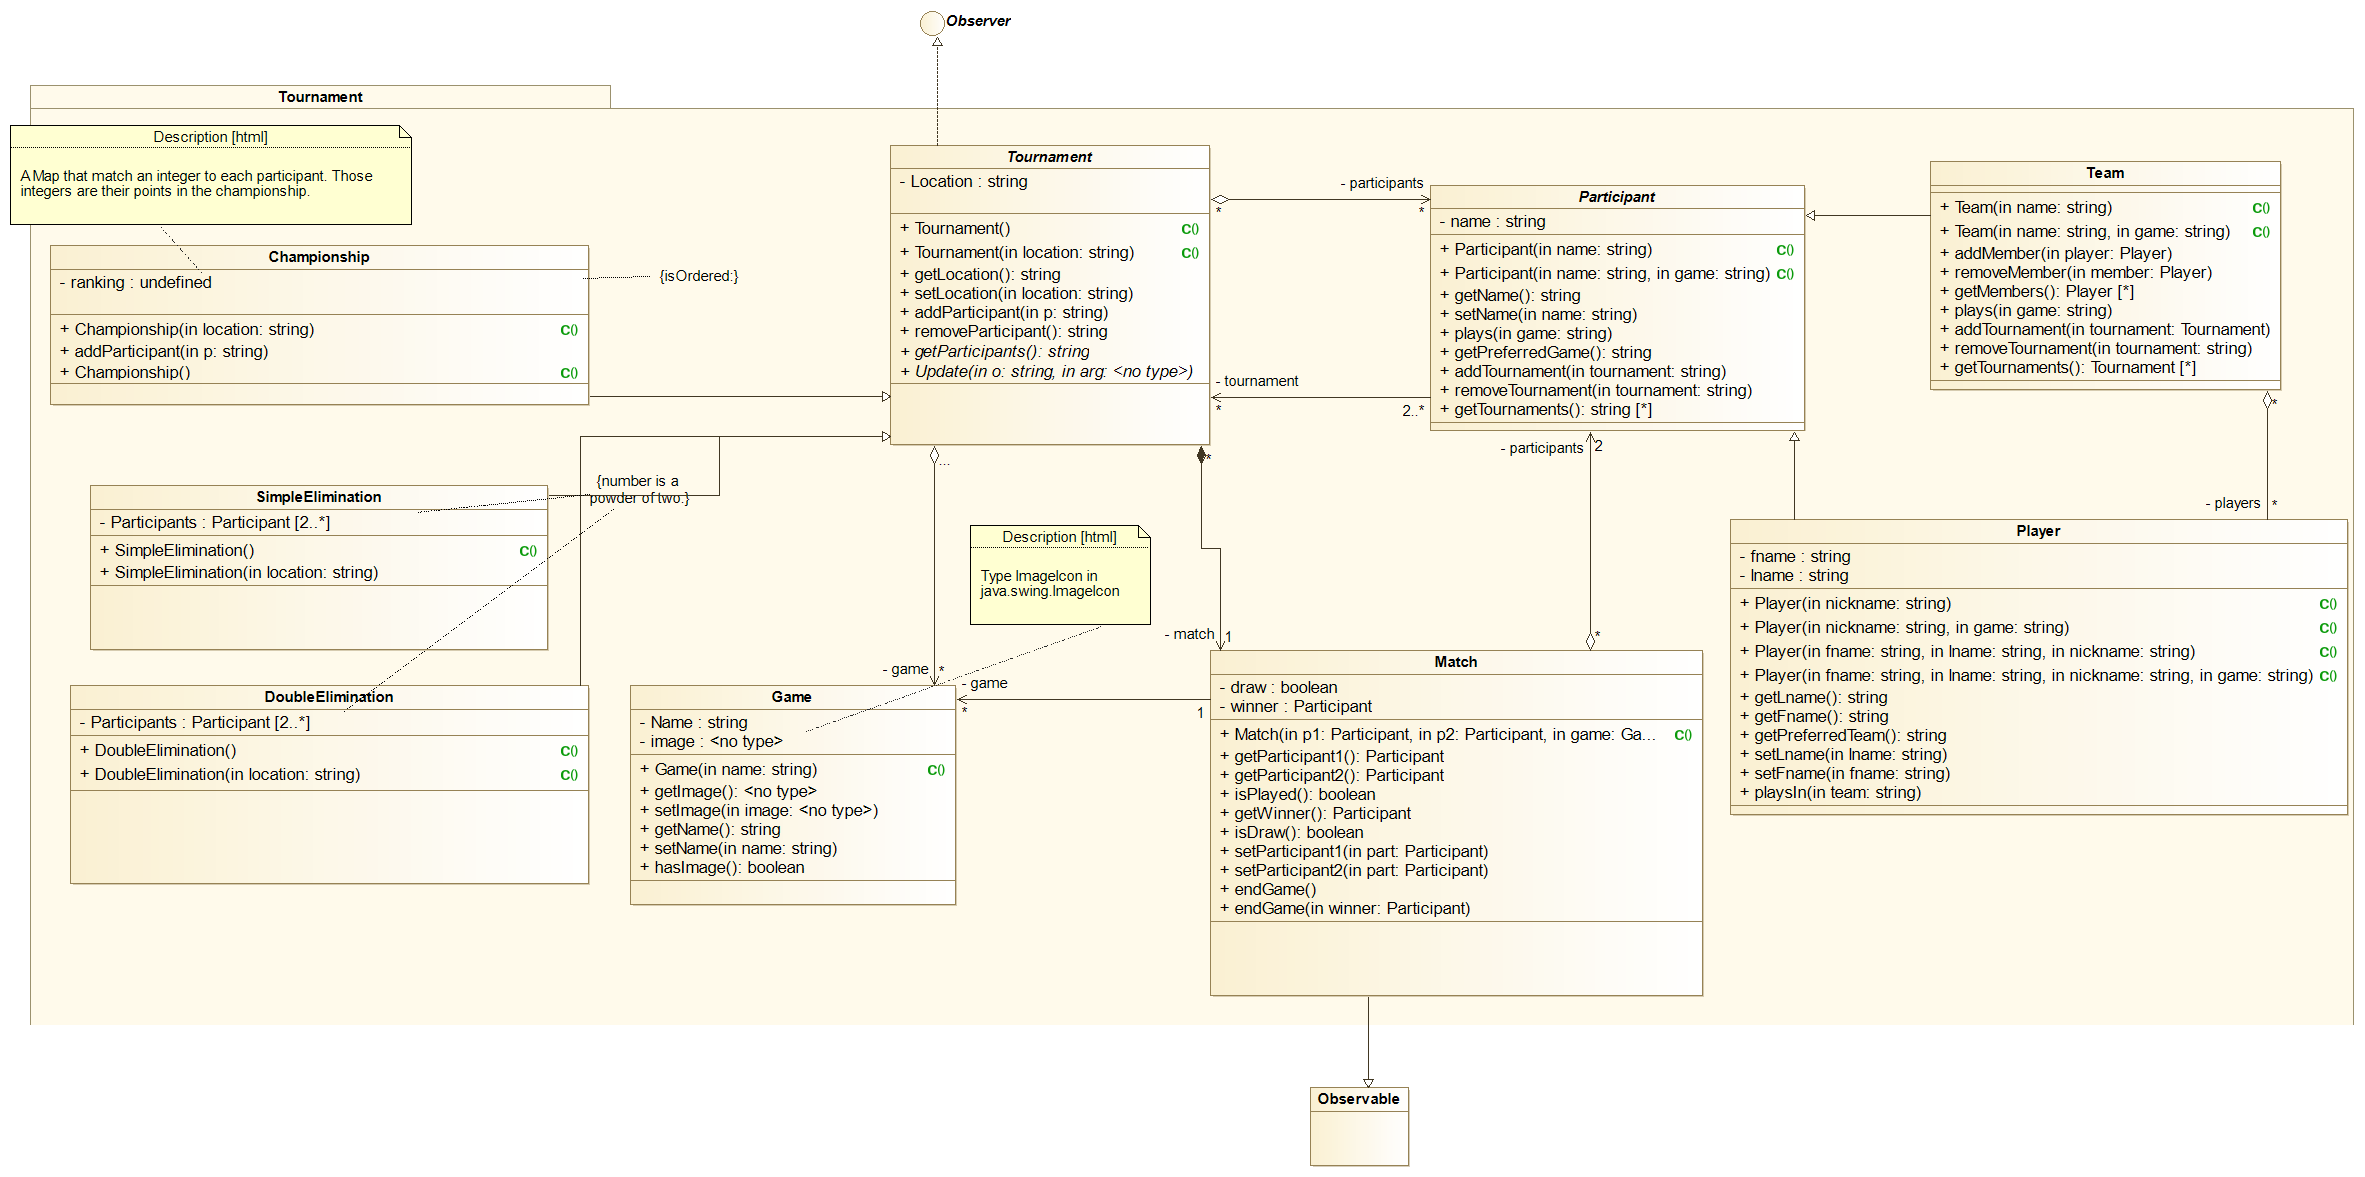
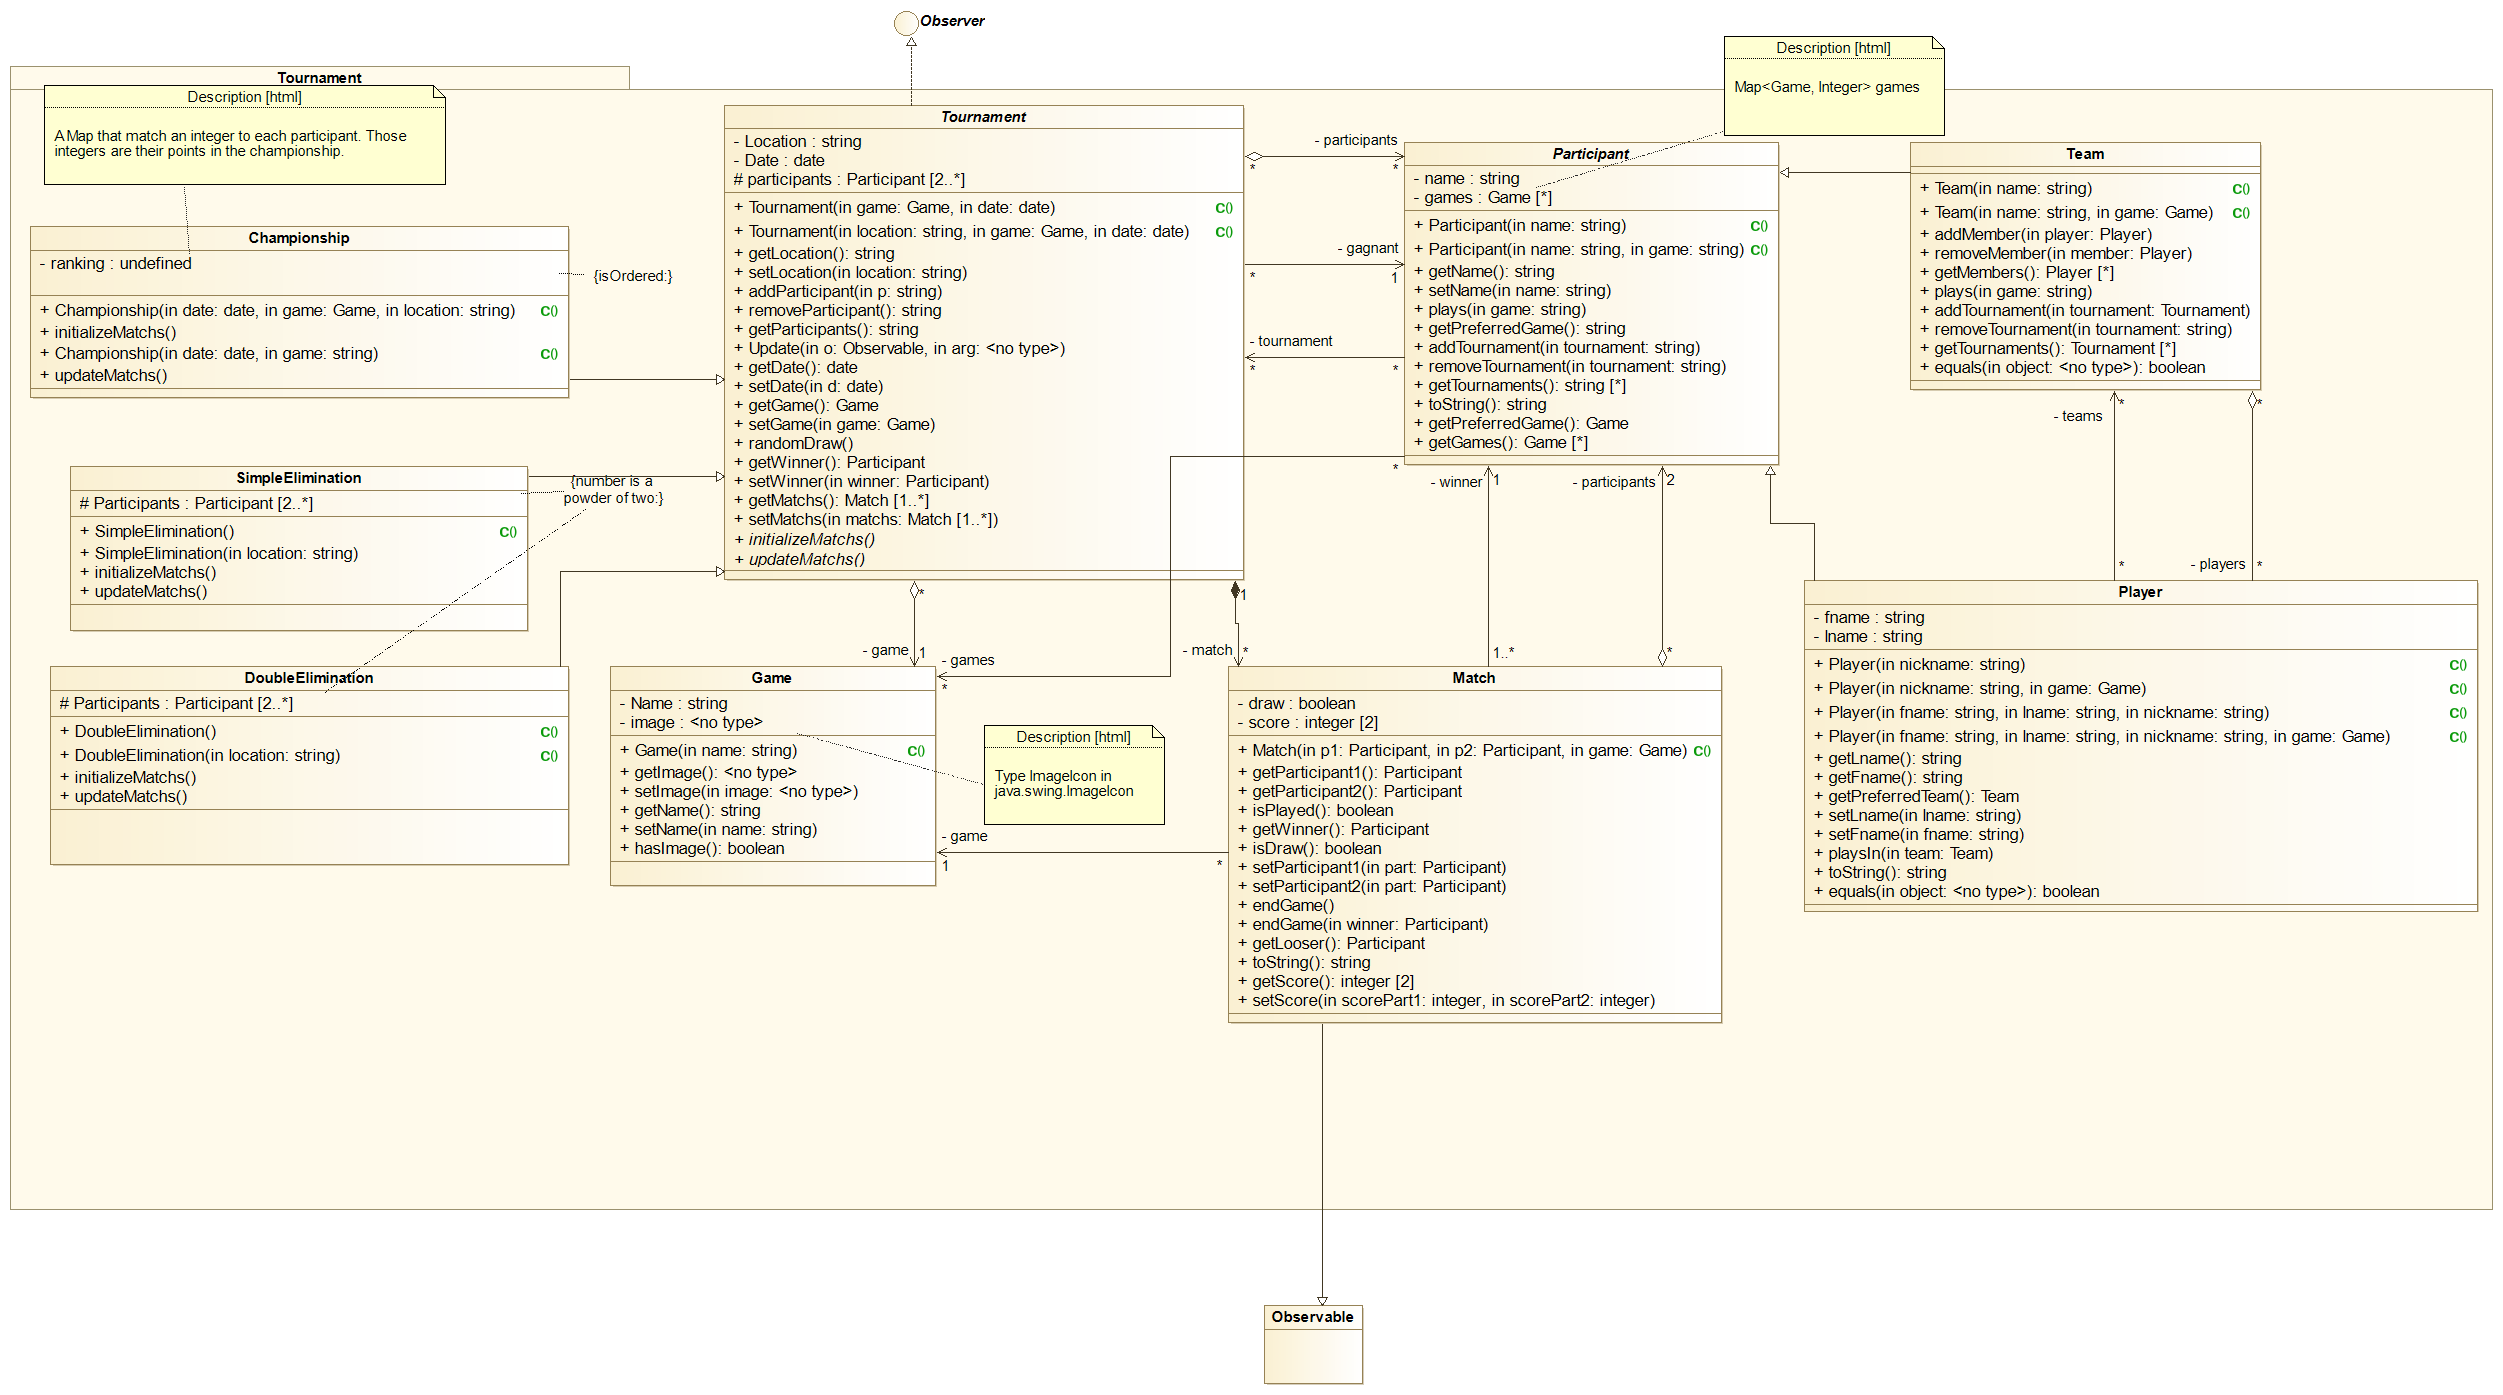
Modification of Class diagram and addition of score in match

diff --git a/src/tournament/Match.java b/src/tournament/Match.java
@@ -12,6 +12,7 @@ import java.util.Observable;
 public class Match extends Observable {
 	
 	private Participant part1, part2, winner;
+	private int[] score; 
 	private Game game;
 	private boolean draw;
 	
@@ -26,6 +27,7 @@ public class Match extends Observable {
 		assert p2 != null;
 		assert game != null;
 		
+		this.score = new int[2];
 		this.part1 = p1;
 		this.part2 = p2;
 		this.game = game;
@@ -67,6 +69,38 @@ public class Match extends Observable {
 		assert part != null;
 		
 		this.part2 = part;
+	}
+	
+	/**
+	 * get the score of the match
+	 * @return
+	 */
+	public int[] getScore() {
+		return score; 
+	}
+	
+	/**
+	 * Set the score of the match and initialize the winner
+	 * @param scorePart1 the score of the participant 1
+	 * @param scorePart2 the score of the participant 2
+	 */
+	public void setScore(int scorePart1, int scorePart2) {
+		assert scorePart1 >= 0; 
+		assert scorePart2 >= 0; 
+		
+		score[0] = scorePart1; 
+		score[1] = scorePart2; 
+		
+		if (score[0] > score[1]) {
+			winner = part1; 
+		} else { 
+			if (score[1] > score[0]) {
+				winner = part2; 
+			} else {
+			    draw = true; 
+			    winner = null; 
+			}
+ 		}
 	}
 	
 	/**
@@ -129,6 +163,10 @@ public class Match extends Observable {
 	 */
 	public boolean isDraw() {
 		return this.draw;
+	}
+	
+	public String toString() {
+		return "" + part1 + ": "+ score[0]+ "\n" + part2+": "+ score[1]+ "\n" ; 
 	}
 	
 }
